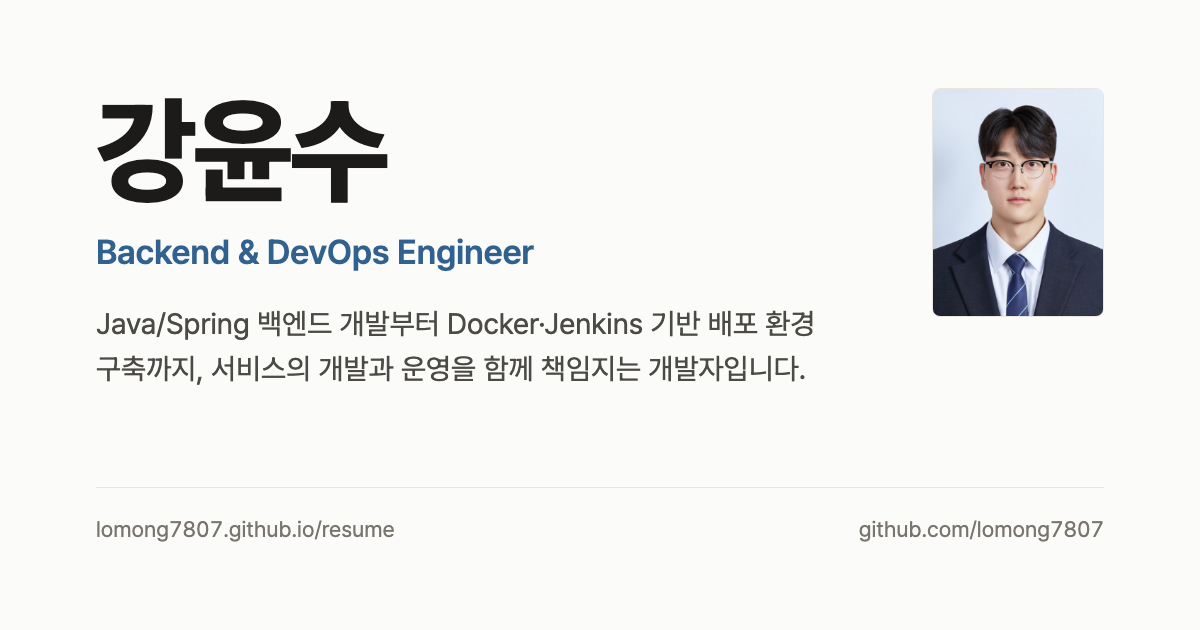
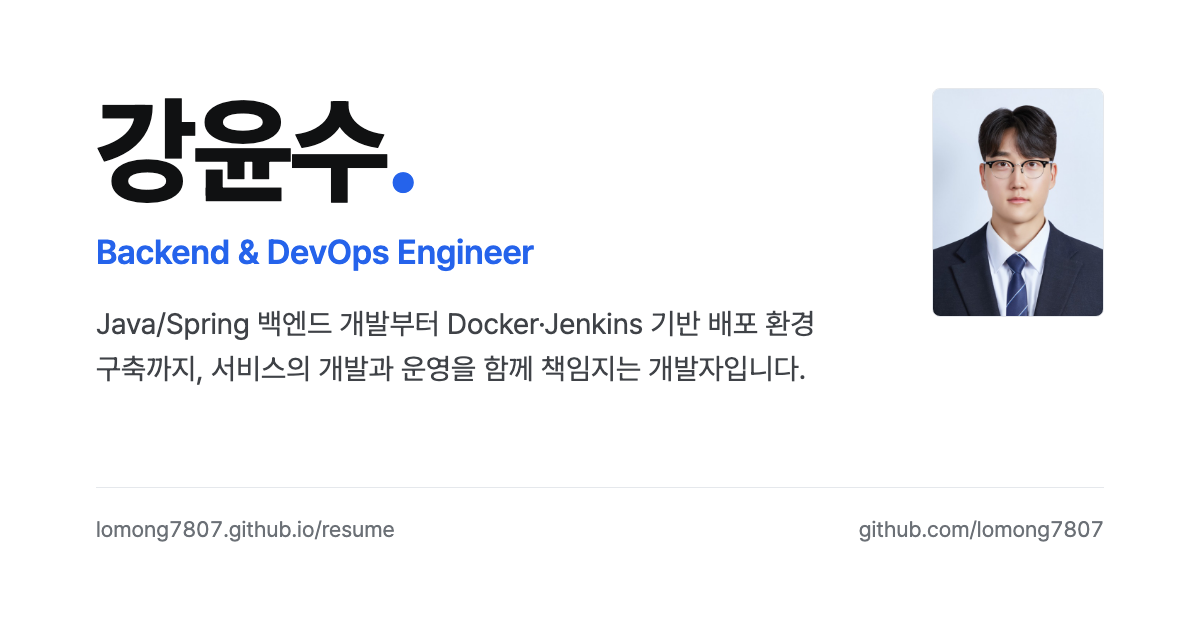
design: 색감 재조정 — 퓨어 모노크롬 + 일렉트릭 코발트
- 웜 베이지 오프화이트/탈색 블루 → 순백 배경 + 크리스프 잉크 + 코발트(#2563eb) 포인트
- 주 CTA 버튼을 코발트로, 직함·수치·링크·활성 네비에 포인트 집중
- 기술/학력 섹션에 쿨 틴트 배경으로 스크롤 리듬, 푸터는 다크 클로징 밴드
- 히어로 이름 뒤 코발트 마침표, OG 이미지 새 팔레트 반영

Claude-Session: https://claude.ai/code/session_01PAVDGQjrmHpbUxrJHXGwVY

Changed region(s): [[0.0617, 0.3619, 0.4625, 0.4222], [0.3083, 0.2714, 0.37, 0.3016]]

diff --git a/src/styles/global.css b/src/styles/global.css
@@ -3,17 +3,18 @@
    Typography: Pretendard only. Hierarchy by weight and size.
    ============================================================ */
 :root {
-  /* color */
-  --bg: #fbfbfa;
+  /* color — pure monochrome + electric cobalt pop */
+  --bg: #ffffff;
+  --bg-soft: #f6f8fa;
   --surface: #ffffff;
-  --ink: #1c1b19;
-  --ink-soft: #4c4a45;
-  --ink-muted: #79756d;
-  --line: #e9e6e0;
-  --line-strong: #d9d5cd;
-  --accent: #31618f;
-  --accent-deep: #274d72;
-  --wash-warm: #f6f5f2;
+  --ink: #101112;
+  --ink-soft: #3f4247;
+  --ink-muted: #6b7076;
+  --line: #e5e8ec;
+  --line-strong: #cfd5db;
+  --accent: #2563eb;
+  --accent-deep: #1d4ed8;
+  --accent-wash: #eef3fe;
 
   /* type */
   --font-sans: 'Pretendard Variable', Pretendard, -apple-system, BlinkMacSystemFont,
@@ -76,7 +77,7 @@ ul {
 }
 
 ::selection {
-  background: var(--wash-warm);
+  background: var(--accent-wash);
   color: var(--accent-deep);
 }
 
@@ -95,6 +96,11 @@ ul {
 
 .section + .section {
   border-top: 1px solid var(--line);
+}
+
+/* 차분한 섹션에 쿨 틴트를 깔아 스크롤 리듬을 만든다 */
+.section--tint {
+  background: var(--bg-soft);
 }
 
 .section-head {
